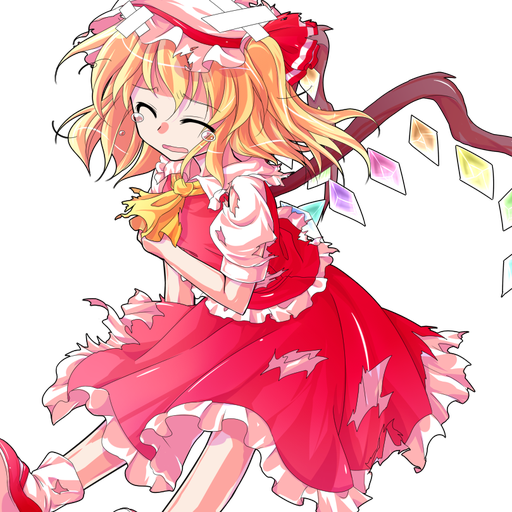
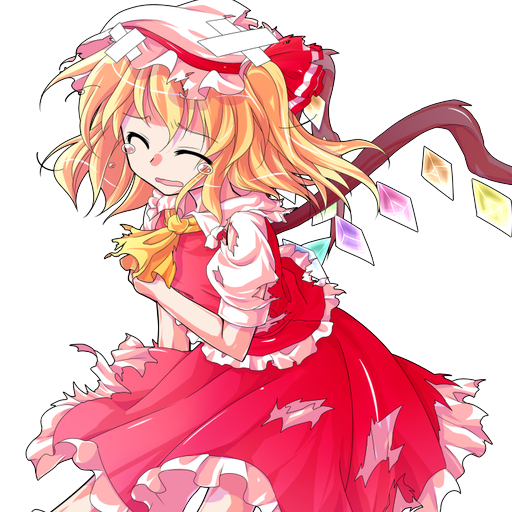
fix: 替换芙兰朵露实际专属头像图片并更新资源版本 (v1.43.4)
- 发现 flandre/avatar.png 本地文件实质为母本模板残留的露米娅图，已从 flandre 真实静态立绘中精细裁切生成芙兰朵露正版头像

- 升级版本至 v1.43.4 (PATCH)

diff --git a/services/templates/dashboard.html b/services/templates/dashboard.html
@@ -2239,16 +2239,16 @@
 </div>
 
 <!-- 大贤者控制台 11 大领域子模块架构 (5570行全量无损解耦与全局桥接) -->
-<script src="/static/js/dashboard/modules/core_nav.js?v=1.43.3"></script>
-<script src="/static/js/dashboard/modules/engine_settings.js?v=1.43.3"></script>
-<script src="/static/js/dashboard/modules/character_management.js?v=1.43.3"></script>
-<script src="/static/js/dashboard/modules/diary_logs.js?v=1.43.3"></script>
-<script src="/static/js/dashboard/modules/character_reactions.js?v=1.43.3"></script>
-<script src="/static/js/dashboard/modules/memory_graph.js?v=1.43.3"></script>
-<script src="/static/js/dashboard/modules/presets_manager.js?v=1.43.3"></script>
-<script src="/static/js/dashboard/modules/databank_editor.js?v=1.43.3"></script>
-<script src="/static/js/dashboard/modules/tools_preview.js?v=1.43.3"></script>
-<script src="/static/js/dashboard/modules/live2d_debug.js?v=1.43.3"></script>
-<script src="/static/js/dashboard/modules/dashboard_stats.js?v=1.43.3"></script>
+<script src="/static/js/dashboard/modules/core_nav.js?v=1.43.4"></script>
+<script src="/static/js/dashboard/modules/engine_settings.js?v=1.43.4"></script>
+<script src="/static/js/dashboard/modules/character_management.js?v=1.43.4"></script>
+<script src="/static/js/dashboard/modules/diary_logs.js?v=1.43.4"></script>
+<script src="/static/js/dashboard/modules/character_reactions.js?v=1.43.4"></script>
+<script src="/static/js/dashboard/modules/memory_graph.js?v=1.43.4"></script>
+<script src="/static/js/dashboard/modules/presets_manager.js?v=1.43.4"></script>
+<script src="/static/js/dashboard/modules/databank_editor.js?v=1.43.4"></script>
+<script src="/static/js/dashboard/modules/tools_preview.js?v=1.43.4"></script>
+<script src="/static/js/dashboard/modules/live2d_debug.js?v=1.43.4"></script>
+<script src="/static/js/dashboard/modules/dashboard_stats.js?v=1.43.4"></script>
 </body>
 </html>
